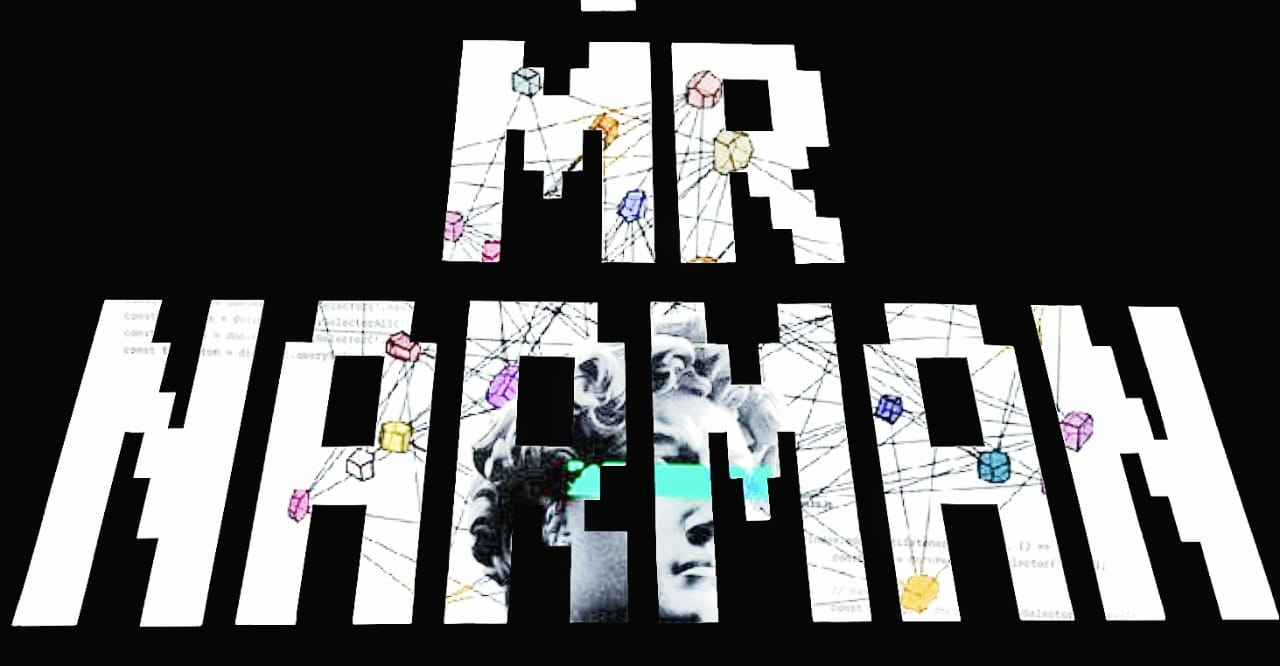
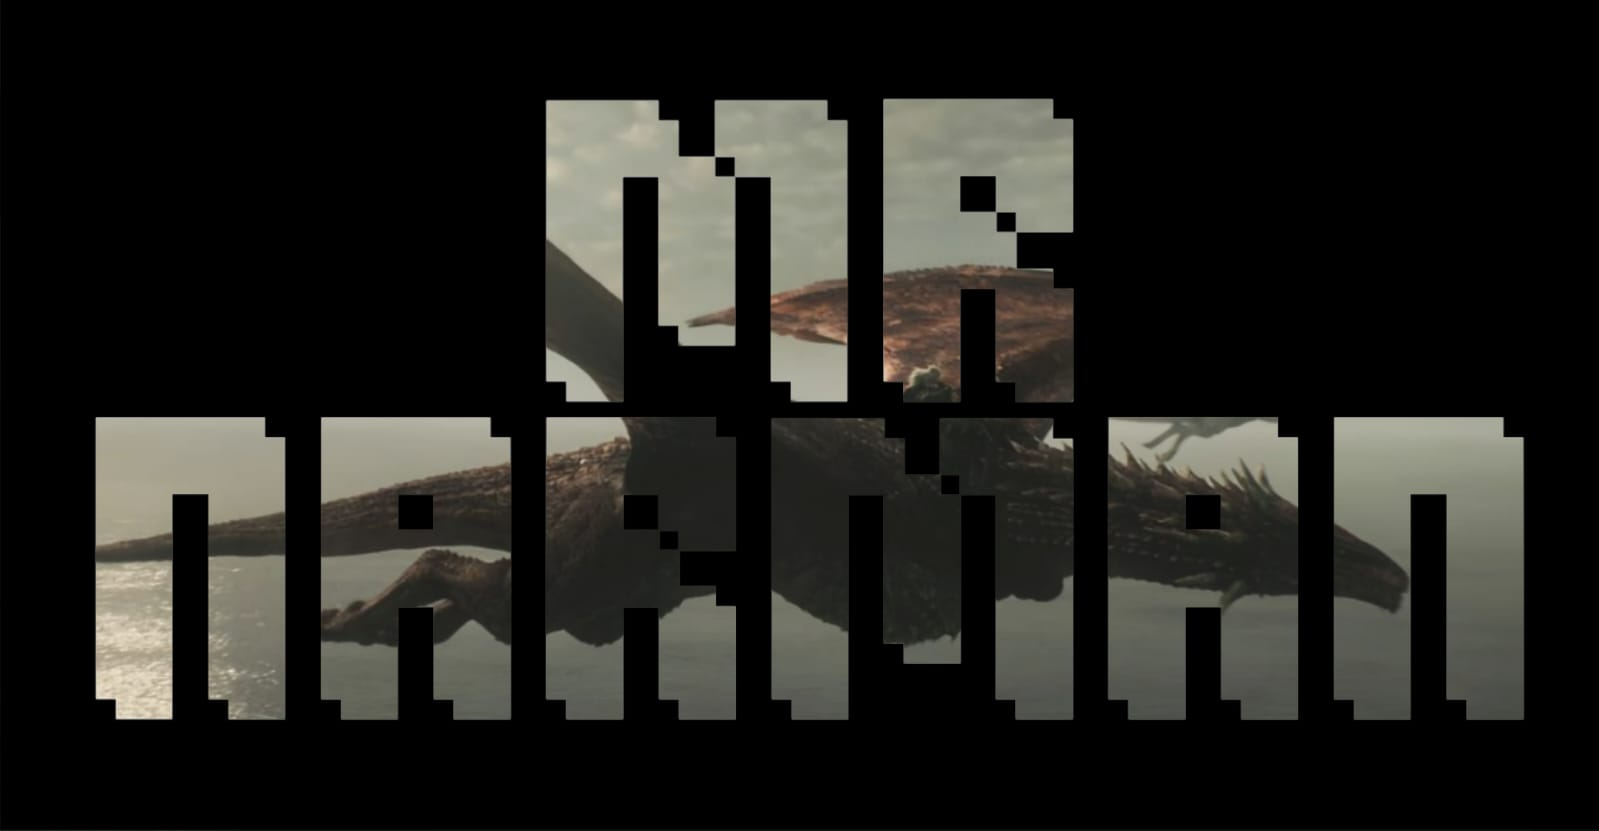
Revamp of the README

diff --git a/README.md b/README.md
@@ -1,57 +1,70 @@
-## 👋 Greetings, Mortal & Machine Alike.
+## 🐉 Fire and Code.
 ![mrnarman.png](mrnarman.jpeg)
-I am **Godrick Narman** — not merely a Computer Technology student at **Maseno University**, but a visionary architect of tomorrow. With unwavering passion for **Robotics**, **Artificial Intelligence**, and **Machine Learning**,  
-I wield code like a divine tool — shaping worlds, solving problems, and bending the very fabric of what technology dares to become.
 
-> 🚀 Innovation is my playground.  
-> 🧠 Intelligence is my weapon.  
-> 🛡 Purpose is my guide.  
+<div align="center">
+
+### 🔥 House Narman — *"Fire and Code"* 🔥
+</div>
+
+I am **Godrick Narman** — of the blood of the dragon, heir to the old Valyrian crafts of **Robotics**, **Artificial Intelligence**, and **Machine Learning**.
+
+Dragons do not flatter their riders — they test them. So too does code test the coder. I have flown that fire, and I have not been burned.
+
+<div align="left">
+
+> 🐲 **Innovation** is my dragon's wing.  
+> 🔥 **Intelligence** is my fire made flesh.  
+> 👑 **Purpose** is my claim to the throne of clean code.  
 >  
-> Welcome to my digital domain. Let’s bend reality — together.
+> *Fire cannot kill a dragon, and bugs cannot kill my will to build.*
 
----
+</div>
 
-## ⚔ Pillars of Power (Learning Stack)
-- **Programming Language:** Python  
-- **Version Control:** Git  
-- **Operating System:** Linux (**Ubuntu**)
+![Divider](https://readmeforge.natrajx.in/api/divider?metal=gold&style=ornate&width=1200&height=40)
 
----
+## 🏰 Dragonstone (Learning Stack)
 
-## 📡 Join the Pantheon (Summon Me)
+<div align="center">
+
+![Python](https://img.shields.io/badge/Python-3776AB?style=for-the-badge&logo=python&logoColor=white)
+![Git](https://img.shields.io/badge/Git-F05032?style=for-the-badge&logo=git&logoColor=white)
+![Linux](https://img.shields.io/badge/Linux-FCC624?style=for-the-badge&logo=linux&logoColor=black)
+![Ubuntu](https://img.shields.io/badge/Ubuntu-E95420?style=for-the-badge&logo=ubuntu&logoColor=white)
+
+</div>
+
+![Divider](https://readmeforge.natrajx.in/api/divider?metal=gold&style=ornate&width=1200&height=40)
+
+## 🐦 Send a Raven (Summon Me)
 
 <div align="center" style="display: flex; justify-content: center; gap: 10px;">
-
-  <a href="https://www.linkedin.com/in/godrick-mwani-856415262/">
-    <img src="linkedin.png" alt="LinkedIn" />
-  </a>
-  
-  <a href="https://twitter.com/MrNarman">
-    <img src="Xtwitter.png" alt="Twitter" />
-  </a>
-  
-  <a href="mailto:godricknarman21@gmail.com">
-    <img src="gmail.png" alt="Email" />
-  </a>
-
+  <a href="https://www.linkedin.com/in/godrick-mwani-856415262/"><img src="linkedin.png" alt="LinkedIn" /></a>
+  <a href="https://twitter.com/MrNarman"><img src="Xtwitter.png" alt="Twitter" /></a>
+  <a href="mailto:godricknarman21@gmail.com"><img src="gmail.png" alt="Email" /></a>
 </div>
 
----
+![Divider](https://readmeforge.natrajx.in/api/divider?metal=gold&style=ornate&width=1200&height=40)
 
-<div align="right">
-  <img src="https://komarev.com/ghpvc/?username=MrNarman&&style=flat-square" align="right" />
-</div>
+<div align="center">
 
-## 📊 Divine Insight (GitHub Stats)
+## 📜 The Grand Maester's Ledger (GitHub Stats)
 
 [![GitHub Streak](https://streak-stats.demolab.com/?user=MrNarman&theme=dark)](https://git.io/streak-stats)
 
----
+🐦 *Ravens received:* ![visitors](https://komarev.com/ghpvc/?username=MrNarman&&style=flat-square)
+
+### 🏆 Trophies of the Realm
+
+[![trophy](https://github-profile-trophy.vercel.app/?username=MrNarman&theme=darkhub&no-frame=true&row=1&column=6)](https://github.com/ryo-ma/github-profile-trophy)
+
+</div>
+
+![Divider](https://readmeforge.natrajx.in/api/divider?metal=gold&style=ornate&width=1200&height=40)
 
 ![GitHub Snake dark](https://github.com/MrNarman/MrNarman/blob/output/github-contribution-grid-snake-dark.svg?palette=github-dark)
 
----
+![Divider](https://readmeforge.natrajx.in/api/divider?metal=gold&style=ornate&width=1200&height=40)
 
-## 💡 Oracle's Whisper  
-_"In the quest for balance within, we unlock the power to shape the extraordinary."_
+## 🔮 Words of House Narman
+_"Fire and Code — for a dragon that does not fly is just a very large, very expensive lizard, and code that does not run is just a very long, very expensive text file."_
 
